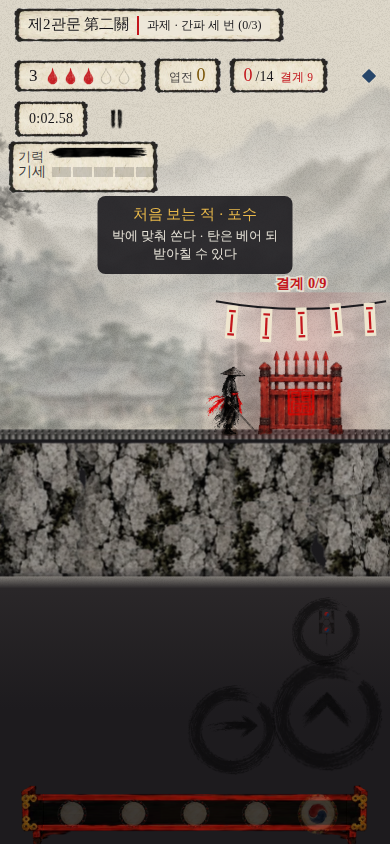
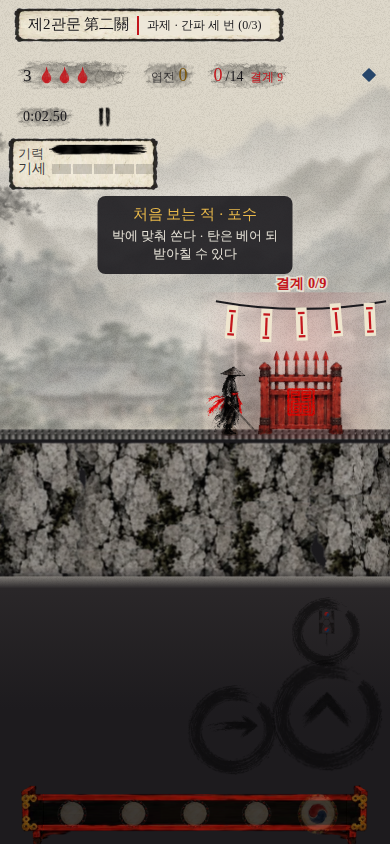
Props and the wind pole cut again with whites a shade under the paper; hanji plate only on the stage label and 기력 panel; plain 천고난무 takes each weapon's own form, smaller, and the 오의 finish is smaller; 보부상 name above his head; each newly opened branch costs one more per step
Claude-Session: https://claude.ai/code/session_01Rc1cVb1vkCQfdutHoe7fgf

Changed region(s): [[0.0308, 0.0616, 0.8615, 0.2464], [0.7385, 0.4621, 0.8, 0.4929]]

diff --git a/js/game.js b/js/game.js
@@ -2,7 +2,7 @@
 (() => {
 "use strict";
 const T = 32;
-const ASSET_V = "143";   // bump when any picture changes: the service worker then fetches the new json and webp together
+const ASSET_V = "144";   // bump when any picture changes: the service worker then fetches the new json and webp together
 const $ = id => document.getElementById(id);
 const cv = $("cv"); let ctx = cv.getContext("2d", { alpha: false });   // let: the ground is baked by pointing ctx at an offscreen canvas for a moment   // opaque canvas: cheaper to composite on phones
 let W = 0, H = 0, DPR = 1, SCALE = 1;
@@ -1311,7 +1311,10 @@ function madangClear() {
 // 수련: a real skill tree. Each cleared gate gives 수련점; spend them on the weapon's tree (a node opens the next along its branch),
 // or on a shared 비급 for the 방어·간파·이동 slots. Unspent points are kept.
 const SP_GAIN = TUNING.SP_GAIN;
-const spCost = c => c.merge ? 3 : [1, 1, 2, 2, 3][c.tier] || 1;   // deeper steps cost more: a branch to its end is 8 points, the whole tree 31 — a run walks one branch out and a little more
+// deeper steps cost more, and every other branch already opened adds one to each step of a new one:
+// the first branch to its 오의 is 8 points as before, a second 12, a third 16, the joins 4 — the whole tree about 45, so a run must choose
+const brOrder = tree => { const o = []; for (const id of (run && run.perks) || []) { const c = CHOSIK_BY[id]; if (c && c.tree === tree && c.tier >= 1 && !c.merge && !c.ougi && !o.includes(c.br)) o.push(c.br); } return o; };   // perks are kept in the order learned
+const spCost = c => { if (c.merge) return 4; if (!c.tier) return 1; const o = brOrder(c.tree), i = o.indexOf(c.br); return ([1, 1, 2, 2, 3][c.tier] || 1) + (c.br == null ? 0 : i < 0 ? o.length : i); };
 function showChoice(kind) {   // kind: "madang" after a cleared gate, "cycle" after cutting 천고, "bonus", "tower", or "pause" (spending from the pause menu)
   const done = () => {
     run.choosing = null; $("choice").classList.remove("tree");
@@ -1338,7 +1341,7 @@ function showChoice(kind) {   // kind: "madang" after a cleared gate, "cycle" af
   $("chTitle").textContent = "수련"; $("choice").classList.remove("route", "wpick"); $("choice").classList.add("tree"); document.querySelectorAll(".route-trail,.ch-held").forEach(o => o.remove());
   $("chMadang").textContent = kind === "pause" ? "멈춤 · 수련" : kind === "tower" ? `천고탑 ${run.floor - 1}층을 넘었다` : kind === "cycle" ? `천고를 베었다 · ${(run.cycle || 0) + 1}번째` : kind === "bonus" ? "징조의 대가" : run.cleared === "rest" ? "쉼터 · 수련" : run.cleared === "event" ? "기연" : `${josa(stageOf(run.m - 1).ko, "을", "를")} 넘었다`;
   const box = $("cards"); box.innerHTML = "";
-  const sp = document.createElement("div"); sp.className = "tr-sp"; sp.innerHTML = `수련점 <b>${"●".repeat(run.sp || 0) || "－"}</b><small>뿌리·1단 1점 · 2·3단 2점 · 4단·합류 3점 · 갈래 끝(4단)을 익히면 천고난무가 오의로</small>`; box.appendChild(sp);
+  const sp = document.createElement("div"); sp.className = "tr-sp"; sp.innerHTML = `수련점 <b>${"●".repeat(run.sp || 0) || "－"}</b><small>뿌리·1단 1점 · 2·3단 2점 · 4단 3점 · 합류 4점 · 갈래를 새로 열 때마다 그 갈래는 한 점씩 더 · 갈래 끝(4단)을 익히면 천고난무가 오의로</small>`; box.appendChild(sp);
   const wrap = document.createElement("div"); wrap.className = "tr-wrap"; box.appendChild(wrap);
   const graph = document.createElement("div"); graph.className = "tr-graph"; const side = document.createElement("div"); side.className = "tr-side"; wrap.append(graph, side);
   let sel = null;
@@ -1436,7 +1439,7 @@ function setupRoad() { // the small road stage: set dressing, one person to talk
   const put = (sheet, i, tx, h, flip) => LV.dress.push({ sheet, i, x: tx * T + 16, y: 12 * T + 2, h, flip: !!flip, ay: 1 });
   let who;
   if (run.node === "rest") { put("npc", 6, 9, 112); put("npc", 7, 26, 52); put("npc", 9, 19, 74); put("props2", P2.brazier, 5, 34); put("props2", P2.sacks, 17, 34); put("props2", P2.rack, 21, 44);   // 쉼터: no free rest now — the 보부상 sells breath for 엽전
-    LV.stations = [{ id: "shop", tx: 19, h: 48, name: "보부상", act: "장터" }]; return; }
+    LV.stations = [{ id: "shop", tx: 19, h: 84, name: "보부상", act: "장터" }]; return; }
   else { const ev = run.eventId || "well"; who = EVENT_NPC[ev]; put("npc", 8, 11, 100); put("props", PROP.stoneLantern, 25, 44); if (who !== "spring") put("props", PROP.jars, 6, 30); }
   const n = NPC[who]; put("npc", n.i, 19, who === "spring" ? 54 : 64, n.flip); LV.stations = [{ id: "npc", who, tx: 19, h: 64, name: n.name, act: run.talked ? "인사" : "이야기" }];
 
@@ -2890,10 +2893,10 @@ function stepChungo(rdt) {
     P.aimDash = true; P.aimedUntil = songPos + .6; for (const e of c.ts) { hurtEnemy(e, c.plain && e.type === "b" ? false : 2); if (!e.alive) bleed(e.x + e.w / 2, e.y + e.h / 2, { x: (Math.random() - .5) * 2, y: -.5 }, true); } P.aimDash = false;
     const last = c.ts[c.ts.length - 1], side = Math.sign(last.x + last.w / 2 - c.pts[0].x) || P.face, nx = last.x + last.w / 2 + side * (last.w / 2 + 16) - P.w / 2, ny = last.y + last.h - P.h - .01;
     if (!rectSolid(nx, ny, P.w, P.h)) { P.x = nx; P.y = ny; P.face = -side; } P.vy = -200; regainAir();
-    if (c.w === "woldo") for (const e of c.ts) addFx("wfx", WF2.quake, e.x + e.w / 2, e.y + e.h + 4, 70, { life: .5, grow: .2, ay: 1 });   // 낙월: each lands like a blow from above
-    if (!c.plain) { const o = ougiOf(), sc = 1; for (const e of c.ts) ougiArt(o.art, e.x + e.w / 2, e.y + e.h / 2, (c.w === "baldo" ? 150 : 110) * sc, { life: .55, rot: c.w === "woldo" ? 0 : Math.random() * .5 - .25, ay: c.w === "woldo" ? .85 : .5 }); }
+    if (c.w === "woldo") for (const e of c.ts) addFx("wfx", WF2.quake, e.x + e.w / 2, e.y + e.h + 4, c.plain ? 40 : 54, { life: .45, grow: .15, ay: 1 });   // 낙월: each lands like a blow from above
+    if (!c.plain) { const o = ougiOf(), sc = 1; for (const e of c.ts) ougiArt(o.art, e.x + e.w / 2, e.y + e.h / 2, (c.w === "baldo" ? 120 : 84) * sc, { life: .55, rot: c.w === "woldo" ? 0 : Math.random() * .5 - .25, ay: c.w === "woldo" ? .85 : .5 }); }
     if (c.plain) for (const e of c.ts) addFx("wfx", WF2.mark, e.x + e.w / 2, e.y + e.h / 2, 40, { life: .3, grow: .4 });
-    else for (const e of c.ts) addFx("wfx", c.w === "ssang" ? WF2.xcut : WF2.burst, e.x + e.w / 2, e.y + e.h / 2, c.w === "ssang" ? 90 : 76, { life: .4, grow: .3, rot: Math.random() * 6.28 });
+    else for (const e of c.ts) addFx("wfx", c.w === "ssang" ? WF2.xcut : WF2.burst, e.x + e.w / 2, e.y + e.h / 2, c.w === "ssang" ? 72 : 58, { life: .4, grow: .2, rot: Math.random() * 6.28 });
     if (c.plain) { shake = 6; Music.sfx("strike"); } else { shake = c.w === "woldo" ? 22 : 18; flash = c.w === "baldo" ? .5 : .35; killCam = Math.max(killCam, .7); Music.jing(); Music.sfx("strike"); } }
   if (c.t > n * lay + .9) chungoFx = null;
 }
@@ -2902,16 +2905,15 @@ function drawChungo(tt) { // painted, laid in order — each weapon writes its o
   const mark = (x, y) => { if (!S || !drawSprite("wfx", WF2.mark, x, y, (20 + Math.sin(tt * 30) * 2) / S.f[WF2.mark].h, false, .5, false, .5)) { ctx.fillStyle = SEAL; ctx.beginPath(); ctx.arc(x, y, 3, 0, 7); ctx.fill(); } };
   const line = (fr, x0, y0, x1, y1, h, sd) => { if (!wfxLine(fr, x0, y0, x1, y1, h)) inkLine(x0, y0, x1, y1, h / 6, sd); };
   ctx.save(); ctx.globalAlpha = fade;
-  if (c.plain) { for (let i = 0; i < n; i++) { const k = Math.max(0, Math.min(1, (c.t - i * lay) / lay)); if (!k) break; const a = c.pts[i], b = c.pts[i + 1]; inkLine(a.x, a.y, a.x + (b.x - a.x) * k, a.y + (b.y - a.y) * k, 3, i * 7 + 3); }   // 천고난무: a plain ink line, foe to foe
-    ctx.restore(); ctx.globalAlpha = 1; return; }
+  const sc = c.plain ? .7 : 1; if (c.plain) ctx.globalAlpha = fade * .8;   // 천고난무 (before a branch's end): the weapon's own form, smaller and lighter
   if (w === "baldo") {   // 일도: marks only, then a single drawn cut through them all
     for (let i = 0; i < n && c.t >= i * lay; i++) if (!c.done) mark(c.pts[i + 1].x, c.pts[i + 1].y);
     if (c.done) { const a = c.pts[0], far = c.pts.reduce((m, q) => Math.hypot(q.x - a.x, q.y - a.y) > Math.hypot(m.x - a.x, m.y - a.y) ? q : m, a), dx = far.x - a.x, dy = far.y - a.y, L = Math.hypot(dx, dy) || 1;
-      line(WF2.iai, a.x - dx / L * 60, a.y - dy / L * 60, far.x + dx / L * 90, far.y + dy / L * 90, 70, 31); }
+      line(WF2.iai, a.x - dx / L * 60, a.y - dy / L * 60, far.x + dx / L * 90, far.y + dy / L * 90, 70 * sc, 31); }
   } else for (let i = 0; i < n; i++) { const k = Math.max(0, Math.min(1, (c.t - i * lay) / lay)); if (!k) break; const a = c.pts[i], b = c.pts[i + 1];
-    if (w === "woldo") { if (S) { const f = S.f[WF2.fall], hh = 190; ctx.save(); ctx.globalAlpha = fade * k; drawSprite("wfx", WF2.fall, b.x, b.y + 30 - (1 - k) * 80, hh / f.h, false, .5, false, 1); ctx.restore(); } else inkLine(b.x, b.y - 170, b.x, b.y + 24, 6, i); }   // 낙월: from the sky straight down
-    else { line(WF2.streak, a.x, a.y, a.x + (b.x - a.x) * k, a.y + (b.y - a.y) * k, c.done ? 34 : 24, i * 13 + 5);
-      if (w === "ssang" && k >= 1 && S) drawSprite("wfx", WF2.xcut, b.x, b.y, 70 / S.f[WF2.xcut].h, i % 2 === 1, .5, false, .5); }   // 쌍검: each one crossed
+    if (w === "woldo") { if (S) { const f = S.f[WF2.fall], hh = 150 * sc; ctx.save(); ctx.globalAlpha = fade * k * (c.plain ? .8 : 1); drawSprite("wfx", WF2.fall, b.x, b.y + 24 - (1 - k) * 70, hh / f.h, false, .5, false, 1); ctx.restore(); } else inkLine(b.x, b.y - 170, b.x, b.y + 24, 6, i); }   // 낙월: from the sky straight down
+    else { line(WF2.streak, a.x, a.y, a.x + (b.x - a.x) * k, a.y + (b.y - a.y) * k, (c.done ? 34 : 24) * sc, i * 13 + 5);
+      if (w === "ssang" && k >= 1 && S) drawSprite("wfx", WF2.xcut, b.x, b.y, 70 * sc / S.f[WF2.xcut].h, i % 2 === 1, .5, false, .5); }   // 쌍검: each one crossed
     if (k >= 1 && !c.done) mark(b.x, b.y); }
   ctx.restore(); ctx.globalAlpha = 1;
 }
@@ -5344,7 +5346,7 @@ $("bInstall").addEventListener("click", async () => { if (!installEvt) return; i
 const standalone = matchMedia("(display-mode: standalone)").matches || matchMedia("(display-mode: fullscreen)").matches || navigator.standalone;
 
 
-if (location.hash === "#debug" && /^(localhost|127\.0\.0\.1)$/.test(location.hostname)) window.__dbg = { get missing() { return ALL_SHEETS.filter(n => !LAZY_SHEETS.has(n) && !SPR[n]).concat(BASE_IMGS.filter(k => !IMG[k])); }, tp(tx, ty) { P.x = tx * T + 7; P.y = (ty + 1) * T - 30; P.vx = P.vy = 0; }, get state() { return state; }, get P() { return P; }, get LV() { return LV; }, get state2() { return state; }, get SC() { return LV.scenery; }, get E() { return enemies; }, get run() { return run; }, set hs(v) { hitstop = v; }, kill(e) { killEnemy(e); }, hurt(e, s, k) { hurtEnemy(e, s, k); }, die(k, d) { die(k, d); }, banner(a, b, c) { banner(a, b === "red" ? SEAL : JJOK, c); }, chungo() { chungo(); }, clear() { madangClear(); }, hubAct() { hubAct(); }, get hub() { return { hubOn, hubNear }; }, get songPos() { return songPos; }, get FLASH() { return FLASH; }, get hold() { return bulletHold; }, get bolts() { return bolts; }, get rings() { return rings; }, get B() { return bullets; }, get beams() { return beams; }, flashing: e => isFlashing(e), wipe: () => inkWipe(), branchEnd: id => branchEnd(CHOSIK_BY[id]), get chosik() { return CHOSIK; }, kickFx: (k, a, b, c) => k === "air" ? airKickFx(a, b, c) : wallKickFx(a, b, c), enlighten: f => enlighten(f), syncCombos: () => syncCombos(), has: id => has(id), get FL() { flashSync(); return FLASH; }, gen: (seed, m, len = 5) => buildMadangMap(seed, m, 0, null, false, 1, 0, len), loadGen(seed, m, len = 5) { loadMap(buildMadangMap(seed, m, 0, null, false, 1, 0, len), PAL[m]); spawnEnemies(); P.x = LV.start.x; P.y = LV.start.y; P.vx = P.vy = 0; }, get songPos() { return songPos; }, slashAt(dx, dy) { P.slashDir = { x: dx, y: dy }; P.slashT = .2; }, tileAt: (x, y) => tileAt(x, y), omenScreen: () => showOmen(), gunShot: h => gunShot(h), picks: st => startPicks(st), wdef: () => wdef(), get META() { return META; }, groupPick: g => groupPick(g), get clones() { return clones; }, set clones(v) { clones = v; }, oathN: () => oathN(), petScreen: () => petScreen() };
+if (location.hash === "#debug" && /^(localhost|127\.0\.0\.1)$/.test(location.hostname)) window.__dbg = { get missing() { return ALL_SHEETS.filter(n => !LAZY_SHEETS.has(n) && !SPR[n]).concat(BASE_IMGS.filter(k => !IMG[k])); }, tp(tx, ty) { P.x = tx * T + 7; P.y = (ty + 1) * T - 30; P.vx = P.vy = 0; }, get state() { return state; }, get P() { return P; }, get LV() { return LV; }, get state2() { return state; }, get SC() { return LV.scenery; }, get E() { return enemies; }, get run() { return run; }, set hs(v) { hitstop = v; }, kill(e) { killEnemy(e); }, hurt(e, s, k) { hurtEnemy(e, s, k); }, die(k, d) { die(k, d); }, banner(a, b, c) { banner(a, b === "red" ? SEAL : JJOK, c); }, chungo() { chungo(); }, clear() { madangClear(); }, hubAct() { hubAct(); }, get hub() { return { hubOn, hubNear }; }, get songPos() { return songPos; }, get FLASH() { return FLASH; }, get hold() { return bulletHold; }, get bolts() { return bolts; }, get rings() { return rings; }, get B() { return bullets; }, get beams() { return beams; }, flashing: e => isFlashing(e), wipe: () => inkWipe(), branchEnd: id => branchEnd(CHOSIK_BY[id]), get chosik() { return CHOSIK; }, kickFx: (k, a, b, c) => k === "air" ? airKickFx(a, b, c) : wallKickFx(a, b, c), enlighten: f => enlighten(f), syncCombos: () => syncCombos(), has: id => has(id), get FL() { flashSync(); return FLASH; }, gen: (seed, m, len = 5) => buildMadangMap(seed, m, 0, null, false, 1, 0, len), loadGen(seed, m, len = 5) { loadMap(buildMadangMap(seed, m, 0, null, false, 1, 0, len), PAL[m]); spawnEnemies(); P.x = LV.start.x; P.y = LV.start.y; P.vx = P.vy = 0; }, get songPos() { return songPos; }, slashAt(dx, dy) { P.slashDir = { x: dx, y: dy }; P.slashT = .2; }, tileAt: (x, y) => tileAt(x, y), omenScreen: () => showOmen(), gunShot: h => gunShot(h), picks: st => startPicks(st), wdef: () => wdef(), get META() { return META; }, groupPick: g => groupPick(g), get clones() { return clones; }, set clones(v) { clones = v; }, oathN: () => oathN(), petScreen: () => petScreen(), spCost: id => spCost(CHOSIK_BY[id]) };
 window.addEventListener("pointerdown", () => Music.unlock(), { once: true, capture: true });   // first tap anywhere starts the sound
 resize();
 toMenu();

diff --git a/index.html b/index.html
@@ -11,8 +11,8 @@
 <meta name="apple-mobile-web-app-status-bar-style" content="black-translucent">
 <meta name="apple-mobile-web-app-title" content="천고">
 <link rel="manifest" href="manifest.webmanifest">
-<link rel="icon" href="icons/icon-192.png?v=10142600">
-<link rel="apple-touch-icon" href="icons/apple-touch-icon.png?v=10142600">
+<link rel="icon" href="icons/icon-192.png?v=10142700">
+<link rel="apple-touch-icon" href="icons/apple-touch-icon.png?v=10142700">
 <link rel="preconnect" href="https://fonts.googleapis.com">
 <link rel="preconnect" href="https://fonts.gstatic.com" crossorigin>
 <link rel="stylesheet" href="https://fonts.googleapis.com/css2?family=Song+Myung&display=swap">
@@ -20,7 +20,7 @@
 <link rel="stylesheet" href="https://fonts.googleapis.com/css2?family=Nanum+Myeongjo&display=swap&text=%E4%B8%80%E4%B8%89%E4%B8%8A%E4%B8%8B%E4%B8%8D%E4%B8%99%E4%B8%9E%E4%B8%AD%E4%B8%B8%E4%B8%B9%E4%B8%BB%E4%B9%99%E4%B9%9D%E4%BA%82%E4%BA%8C%E4%BA%94%E4%BA%95%E4%BA%AD%E4%BF%83%E4%BF%AE%E5%81%87%E5%81%9C%E5%83%A7%E5%85%89%E5%85%A5%E5%85%A9%E5%85%AD%E5%85%B5%E5%85%B7%E5%86%A4%E5%86%B6%E5%86%B7%E5%87%8C%E5%88%80%E5%88%83%E5%88%86%E5%88%87%E5%88%91%E5%88%9D%E5%88%BA%E5%89%9B%E5%8A%8D%E5%8A%9B%E5%8A%9F%E5%8B%95%E5%8B%9D%E5%8B%A2%E5%8D%83%E5%8D%B4%E5%8D%B7%E5%8E%84%E5%8F%8D%E5%8F%A3%E5%8F%AF%E5%90%8D%E5%90%B8%E5%91%B5%E5%91%BD%E5%9B%9B%E5%9B%9E%E5%9C%B0%E5%9D%90%E5%A0%82%E5%A1%94%E5%A1%9E%E5%A2%83%E5%A2%93%E5%A2%9C%E5%A3%81%E5%A3%87%E5%A3%9E%E5%A4%A7%E5%A4%A9%E5%A4%B7%E5%A5%A7%E5%A5%AA%E5%A5%B3%E5%A6%99%E5%AD%97%E5%AD%A4%E5%AE%88%E5%AE%97%E5%AF%82%E5%AF%9E%E5%B0%84%E5%B0%87%E5%B0%8E%E5%B0%BE%E5%B1%88%E5%B1%B1%E5%B6%BA%E5%B7%AB%E5%B7%AE%E5%B8%B3%E5%B8%B6%E5%B9%95%E5%B9%B3%E5%B9%BB%E5%BA%AB%E5%BC%93%E5%BC%95%E5%BD%88%E5%BD%B1%E5%BE%8B%E5%BE%90%E5%BE%91%E5%BF%83%E5%BF%85%E5%BF%B5%E6%80%92%E6%80%A5%E6%81%AF%E6%87%89%E6%88%90%E6%88%B0%E6%88%BF%E6%89%80%E6%89%87%E6%89%8B%E6%89%93%E6%8B%8D%E6%8B%94%E6%8C%81%E6%8D%AE%E6%8E%A5%E6%8E%A8%E6%8F%9B%E6%93%8A%E6%94%B6%E6%95%A3%E6%96%A4%E6%96%AC%E6%96%B7%E6%97%8B%E6%98%87%E6%98%8E%E6%98%9F%E6%9A%B4%E6%9B%89%E6%9B%B8%E6%9C%88%E6%9C%9B%E6%9C%AC%E6%9D%BF%E6%9E%97%E6%A1%B6%E6%A2%85%E6%A2%AF%E6%A5%AD%E6%A7%8C%E6%A7%8D%E6%A8%93%E6%A9%9F%E6%AD%A2%E6%AD%A3%E6%AD%A5%E6%AD%A6%E6%AD%B8%E6%AD%BB%E6%AE%98%E6%AE%BA%E6%AE%BF%E6%B0%A3%E6%B0%B4%E6%B1%BA%E6%B3%89%E6%B3%95%E6%B4%BE%E6%B5%81%E6%B7%B1%E6%B7%B5%E6%B8%A1%E6%BA%96%E6%BB%85%E6%BB%91%E6%BB%BF%E6%BD%9B%E6%BF%83%E6%BF%A4%E7%81%AB%E7%82%8E%E7%82%B8%E7%83%8F%E7%84%A1%E7%84%B0%E7%85%99%E7%85%A7%E7%86%9F%E7%86%B1%E7%87%92%E7%87%95%E7%88%86%E7%89%8C%E7%8B%82%E7%8B%90%E7%8B%99%E7%8D%A8%E7%8D%AC%E7%8E%84%E7%8E%8B%E7%92%B0%E7%94%95%E7%94%9F%E7%94%B0%E7%94%B2%E7%96%BE%E7%99%BB%E7%99%BC%E7%99%BD%E7%9B%9F%E7%9B%A1%E7%9B%B8%E7%9C%8B%E7%9C%BC%E7%9D%80%E7%9E%AC%E7%9F%AD%E7%9F%B3%E7%A0%B2%E7%A0%B4%E7%A2%91%E7%A5%9E%E7%A5%A0%E7%A7%98%E7%A9%BA%E7%AA%81%E7%AA%9F%E7%AB%B9%E7%AC%88%E7%AC%A6%E7%AC%AC%E7%AD%92%E7%AE%A1%E7%AE%AD%E7%B4%85%E7%B5%82%E7%B5%90%E7%B5%B2%E7%B5%B6%E7%B6%AD%E7%B6%B2%E7%B6%B5%E7%B7%A3%E7%B7%B4%E7%B8%9B%E7%B8%AE%E7%B9%A9%E7%BA%8C%E7%BD%A1%E7%BD%AE%E7%BE%85%E7%BE%A9%E7%BF%94%E7%BF%BC%E8%81%B2%E8%83%8E%E8%84%9A%E8%87%BA%E8%88%9E%E8%8A%B1%E8%90%AC%E8%90%BD%E8%93%84%E8%97%A5%E8%99%8E%E8%99%95%E8%99%9B%E8%99%9F%E8%9E%AD%E8%A1%80%E8%A1%8C%E8%A1%93%E8%A1%9D%E8%A1%A3%E8%A2%96%E8%A3%82%E8%A5%B2%E8%A6%81%E8%A7%92%E8%A7%A3%E8%AA%93%E8%AA%98%E8%AA%BF%E8%AD%B7%E8%B0%B7%E8%B1%B8%E8%B3%AD%E8%B5%A4%E8%B5%B0%E8%B6%8A%E8%B6%B3%E8%B7%9D%E8%B7%A1%E8%B7%AF%E8%B7%B3%E8%B8%8F%E8%BA%8D%E8%BA%AB%E8%BB%8A%E8%BB%8D%E8%BC%95%E8%BC%AA%E8%BF%8E%E8%BF%91%E8%BF%94%E8%BF%BD%E9%80%86%E9%80%90%E9%80%9F%E9%80%A3%E9%81%8E%E9%81%A0%E9%82%84%E9%87%8C%E9%87%8D%E9%87%91%E9%88%B4%E9%8A%80%E9%8A%83%E9%8D%8A%E9%8D%9B%E9%8E%96%E9%8E%AD%E9%8F%A1%E9%90%B5%E9%95%B7%E9%96%80%E9%96%83%E9%96%93%E9%96%A3%E9%97%9C%E9%98%B2%E9%99%8D%E9%99%A3%E9%99%A4%E9%9A%AA%E9%9B%99%E9%9B%A2%E9%9B%A8%E9%9B%B2%E9%9B%B6%E9%9B%B7%E9%9B%BB%E9%9C%86%E9%9C%87%E9%9C%A7%E9%9C%B9%E9%9D%82%E9%9D%88%E9%9D%91%E9%9D%9C%E9%9D%A2%E9%A2%A8%E9%A3%9B%E9%A3%9F%E9%A6%99%E9%A6%AC%E9%A8%B0%E9%AA%A8%E9%AC%BC%E9%AD%82%E9%AD%9A%E9%B3%A5%E9%B3%B6%E9%B5%B2%E9%B6%B4%E9%B7%B9%E9%BB%91%E9%BC%93%E9%BD%8A%E9%BE%8D">
 <link rel="preload" as="image" href="assets/load-wide.webp" media="(orientation: landscape)">
 <link rel="preload" as="image" href="assets/load-tall.webp" media="(orientation: portrait)">
-<link rel="stylesheet" href="style.css?v=10142600">
+<link rel="stylesheet" href="style.css?v=10142700">
 <link rel="preload" as="image" href="assets/ld-bg-wide.webp" media="(orientation: landscape)"><link rel="preload" as="image" href="assets/ld-bg-tall.webp" media="(orientation: portrait)">
 </head>
 <body>
@@ -180,11 +180,11 @@
   (ld.querySelector(".ld-in") || ld).appendChild(b); }
   window.addEventListener("error", function () { setTimeout(rescue, 1500); }); setTimeout(rescue, 25000); })();
 </script>
-<script src="js/tuning.js?v=10142600"></script>
-<script src="js/content.js?v=10142600"></script>
-<script src="js/data.js?v=10142600"></script>
-<script src="js/music.js?v=10142600"></script>
-<script src="js/game.js?v=10142600"></script>
+<script src="js/tuning.js?v=10142700"></script>
+<script src="js/content.js?v=10142700"></script>
+<script src="js/data.js?v=10142700"></script>
+<script src="js/music.js?v=10142700"></script>
+<script src="js/game.js?v=10142700"></script>
 <script>
 if ("serviceWorker" in navigator && (location.protocol === "https:" || location.hostname === "localhost")) {
   window.addEventListener("load", () => navigator.serviceWorker.register("sw.js", { updateViaCache: "none" }).then(r => r.update()).catch(() => {}));

diff --git a/style.css b/style.css
@@ -560,10 +560,8 @@ body.portrait #hCoin { order: 4; } body.portrait.ui-ready #hCoin { padding-inlin
 .seal-pt span { font-size: clamp(10px, 1.9vmin, 13px); padding: 0 4px; background: rgba(236,230,216,.8); border-radius: 3px; white-space: nowrap; }
 .seal-lore { margin: 4px 0 8px; font-size: 13px; line-height: 1.5; color: var(--ink); min-height: 2.6em; }
 /* HUD 패: 먹 테두리를 두른 한지 패 위에 글씨를 올려 어떤 배경(바위·안개·밤)에서도 읽히게 */
-.ui-ready #hud > .hl, .ui-ready #hud .t, .ui-ready #hBreath, .ui-ready #hCut, .ui-ready #hCoin { background: none; border: 6px solid transparent; border-image: url("assets/ui-plate.webp") 12 fill / 6px stretch; border-radius: 0; padding: 1px 8px; color: #17161a; }
-.night #hud > .hl, .night #hud .t, .night #hBreath b, .night #hCut, .night #hCoin { color: #17161a; }
-.night #hBreath i { filter: none; } .night #hBreath i.lost { background: rgba(60,56,50,.35); }
-.night #hCut.open b, .night #hCut.open small, .night #hCoin small { color: #17161a; } .night #hCoin b { color: #7a5508; }
+.ui-ready #hud > .hl { background: none; border: 6px solid transparent; border-image: url("assets/ui-plate.webp") 12 fill / 6px stretch; border-radius: 0; padding: 1px 8px; color: #17161a; }
+.night #hud > .hl { color: #17161a; }
 body.inhub #hud .hl { border: 0; border-left: 3px solid #c3161c; border-image: none; }
 @media (max-height: 500px) { .seal-map { width: min(100%, calc(40vh * 16 / 9)); } .seal-lore { min-height: 0; margin: 2px 0 4px; } }
 .seal-pt:not(.on) span { display: none; }   /* 봉인 못 한 자리는 낙관 칸만: 이름표 ？？？가 서로 겹치지 않게 */

diff --git a/_review/r68_chungo.js b/_review/r68_chungo.js
@@ -1,0 +1,8 @@
+// 천고난무 frames for one weapon: plain (no branch end) and 오의 (branch end taken)
+const { open, RUN } = require('./lib');
+const w = process.argv[2] || 'woldo', open_ = process.argv[3] === 'open';
+(async () => { const { b, p, errs } = await open({ vp: { width: 932, height: 430 }, mobile: true, run: RUN(w, { m: 1, seed: 7, qi: 100 }), meta: { firsts: { tutDone: 1 }, runN: 5, weapons: ['woldo', 'ssang', 'baldo'], tips: { chungo: 1, w_woldo: 1, w_hwando: 1 } } });
+  await p.evaluate(o => { if (o) { const c = __dbg.chosik.find(c => c.tree && c.tier === 4 && c.tree === __dbg.run.weapon); if (c) __dbg.branchEnd(c.id); }
+    const E = __dbg.E.filter(e => e.alive).sort((a, b) => a.x - b.x); const P = __dbg.P; for (const [i, e] of E.slice(0, 5).entries()) { e.x = P.x + 90 + i * 70; e.y = P.y + P.h - e.h; } __dbg.chungo(); }, open_);
+  for (let i = 0; i < 6; i++) { await p.waitForTimeout(140); await p.screenshot({ path: `_review/shots/cg_${w}_${open_ ? 'o' : 'p'}_${i}.png`, clip: { x: 150, y: 60, width: 700, height: 330 } }); }
+  console.log(errs); await b.close(); })();

diff --git a/sw.js b/sw.js
@@ -1,6 +1,6 @@
 // 천고 service worker: network-first for the game files (so updates land on the next launch),
 // cache fallback for offline play, cache-first for Google Fonts.
-const CACHE = "chungo-v158";
+const CACHE = "chungo-v159";
 const ASSETS = "chungo-assets";   // pictures and sound: kept across versions, served at once, refreshed in the background
 const CORE = ["./", "index.html", "manifest.webmanifest",
   "icons/icon-192.png", "icons/icon-512.png", "icons/apple-touch-icon.png"];

diff --git a/_review/map_cut.py b/_review/map_cut.py
@@ -25,7 +25,7 @@ def cut(name, maxh=240):
   safe = np.maximum(np.maximum(cta, inner), 1e-3)[..., None]
   col = np.clip((a - 255 * (1 - safe)) / safe, 0, 255)
   # ink-wash grade that still reads: colour kept at 45%, blacks stay ink-dark, whites pressed to paper, a warm wash over all
-  lum = col.mean(2, keepdims=True); L2 = 30 + lum * .78
+  lum = col.mean(2, keepdims=True); L2 = 28 + lum * .66   # white tops out a shade under the stage paper: a white cloth reads as cloth, never as a hole
   col = (L2 + (col - lum) * .45) * np.array([1.0, .97, .91])
   big = ndimage.binary_dilation(alpha > .05, iterations=5); lab, n = ndimage.label(big)
   objs = ndimage.find_objects(lab); areas = ndimage.sum(alpha > .05, lab, range(1, n + 1))
@@ -45,4 +45,4 @@ def cut(name, maxh=240):
   json.dump({"f": fr} if False else fr, open(f'/home/user/akane/assets/sprites/{name}.json', 'w'), separators=(',', ':'))
   pap = Image.new('RGBA', sheet.size, (200, 190, 170, 255)); pap.alpha_composite(sheet); pap.convert('RGB').save(f'{sys.argv[1]}/c_{name}.jpg')
   print(name, len(fr), [(f['w'], f['h']) for f in fr])
-for n in ['md0', 'md1', 'md2', 'md3', 'md4']: cut(n)
+for n in (sys.argv[2:] or ['md0', 'md1', 'md2', 'md3', 'md4']): cut(n)

diff --git a/GAME_REVIEW_REPORT.md b/GAME_REVIEW_REPORT.md
@@ -676,3 +676,10 @@
 - 화면: 카메라가 땅 아래 8px 빈 종이를 보여주던 문제 수정. 가로 폰에서 판(보드) 제목을 줄여 한 화면에 들게, 봉인 지도 이름표 겹침 정리.
 - 버그: 약수 '고른 숨'(혼 110)이 쉼터 개편 뒤 아무 효과가 없던 문제 → 보부상 환약 엽전 10 할인으로 바꿈. 로딩 팁의 옛 쉼터 문구 수정.
 - 정리: 쓰이지 않던 수련 깨치기 화면·쉼터 주모 대화 코드 삭제. 기력 판 9조각 그리기를 한 장으로 캐시.
+
+## 변경 기록 — 소품 흰색·HUD 패 범위·무기별 천고난무·트리 비용 (2026-10-14 저녁)
+- 소품: 하얀 천·바람개비·바람 깃대(mapobj 포함)가 종이보다 밝아 '덜 잘린 흰색'처럼 보이던 문제 — 가장 밝은 색을 종이보다 한 톤 아래로 눌러 다시 자름 (map_cut.py, mapobj 프레임 동일 확인).
+- HUD 한지 패: 관문 이름(험로 칸)과 기력·기세 판에만. 나머지는 원래 먹 번짐.
+- 천고난무: 갈래 끝 전에도 무기마다 자기 모양(월도=낙월, 쌍검=X, 발도=일도, 환도=이음선)으로, 0.7배 크기·옅게. 오의 마무리 그림·충격·낙월 크기 줄임.
+- 보부상 이름표를 머리 위로 올림.
+- 트리: 합류 4점, 그리고 새로 여는 갈래마다 그 갈래 각 단계 +1 (첫 갈래 8점 그대로, 둘째 12, 셋째 16) → 전체 약 45점. 첫 오의 시점은 그대로, 다 찍기는 약 1.5배 느리게.
